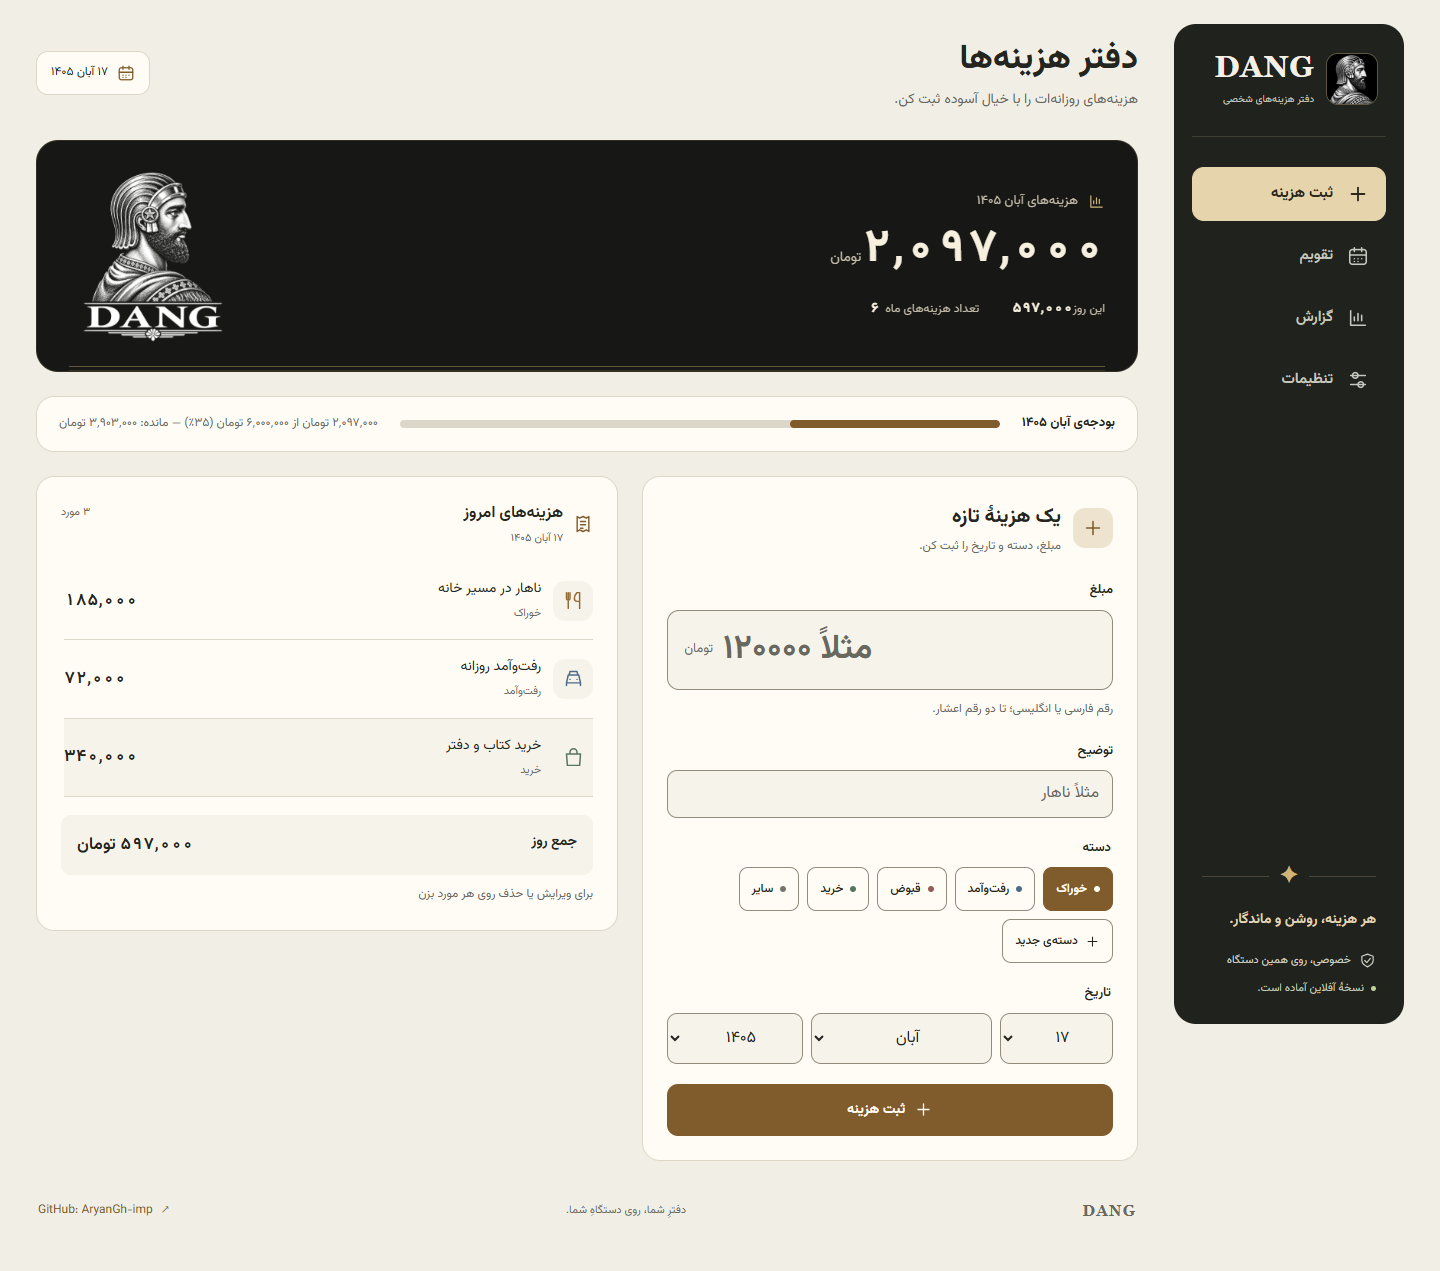
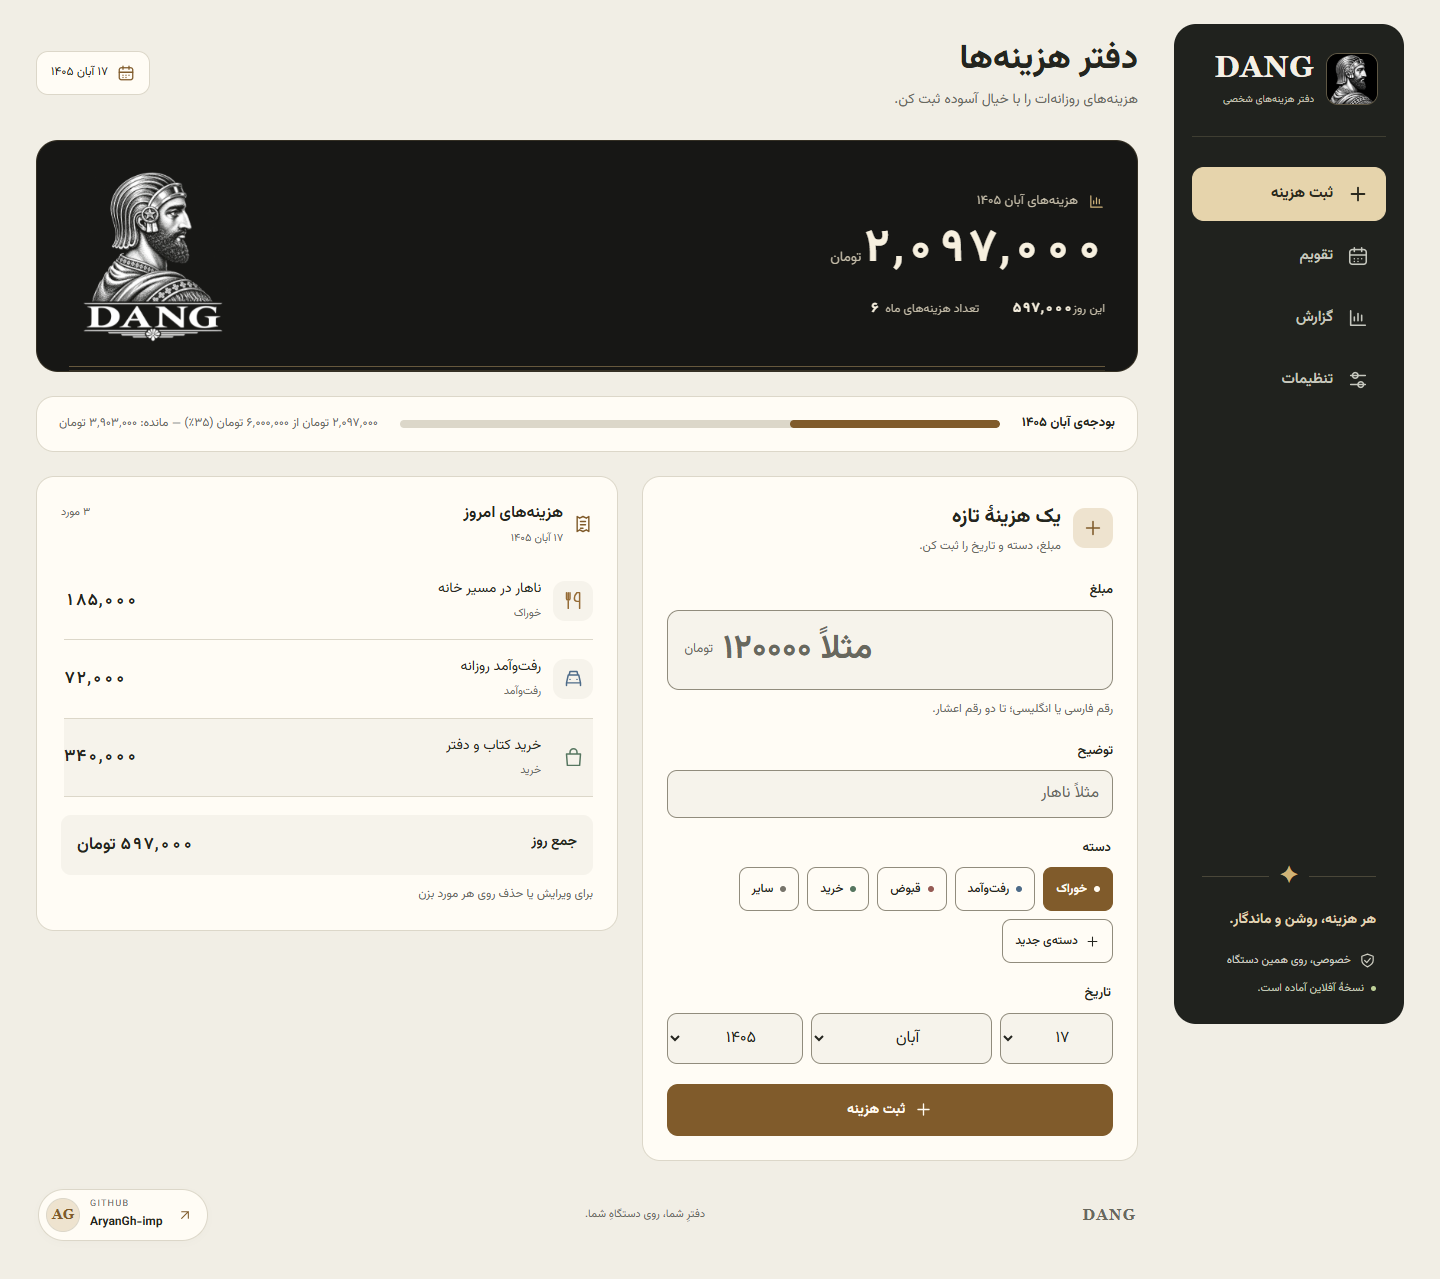
style(footer): refine the GitHub maintainer badge
Replace the plain GitHub credit with a theme-aware capsule, AG monogram,
two-line platform/handle label and a restrained external-link arrow.

Preserve the destination, accessible name, safe new-tab attributes and touch
target. Update the design guide and reviewed light/dark/mobile previews.

diff --git a/assets/css/styles.css b/assets/css/styles.css
@@ -2210,12 +2210,62 @@ details > label {
 .author-link {
   display: inline-flex;
   align-items: center;
-  gap: 8px;
-  min-height: 44px;
+  gap: 10px;
+  min-height: 52px;
   min-width: 44px;
-  font-size: 12px;
+  padding: 7px 14px 7px 7px;
+  border: 1px solid var(--line);
+  border-radius: 999px;
+  background: var(--card);
+  color: var(--ink);
   text-decoration: none;
+  box-shadow: 0 2px 8px #00000004;
+  transition:
+    border-color 160ms ease,
+    background 160ms ease,
+    transform 160ms ease;
 }
-.author-link:hover {
-  text-decoration: underline;
+.author-avatar {
+  display: grid;
+  place-items: center;
+  width: 34px;
+  height: 34px;
+  flex: none;
+  border: 1px solid var(--line);
+  border-radius: 50%;
+  background: var(--accent-soft);
+  color: var(--accent);
+  font-family: Georgia, serif;
+  font-size: 14px;
+  font-weight: 700;
+}
+.author-info {
+  display: flex;
+  flex-direction: column;
+  align-items: flex-start;
+  gap: 2px;
+}
+.author-platform {
+  color: var(--mute);
+  font-size: 9px;
+  line-height: 1.3;
+  letter-spacing: 0.14em;
+  text-transform: uppercase;
+}
+.author-name {
+  font-size: 12px;
+  line-height: 1.5;
+  font-weight: 650;
+}
+.author-arrow {
+  flex: none;
+  margin-inline-start: 4px;
+  color: var(--accent);
+}
+@media (hover: hover) and (pointer: fine) {
+  .author-link:hover {
+    border-color: var(--accent);
+    background: var(--paper);
+    transform: translateY(-2px);
+  }
 }

diff --git a/tests/browser/design.spec.js b/tests/browser/design.spec.js
@@ -129,6 +129,7 @@ test('capture branded desktop and mobile previews', async ({ page, browserName }
   await page.setViewportSize({ width: 1440, height: 1080 });
   await page.evaluate(() => window.scrollTo(0, 0));
   await page.screenshot({ path: 'docs/previews/desktop.png', fullPage: true });
+  await page.locator('.author-link').screenshot({ path: 'docs/previews/author-badge.png' });
   await page.setViewportSize({ width: 390, height: 844 });
   await page.evaluate(() => window.scrollTo(0, 0));
   await page.screenshot({ path: 'docs/previews/mobile.png', fullPage: true });
@@ -139,6 +140,7 @@ test('capture branded desktop and mobile previews', async ({ page, browserName }
   await expect(page.locator('#status')).toBeHidden();
   await page.evaluate(() => window.scrollTo(0, 0));
   await page.screenshot({ path: 'docs/previews/imperial-dark.png', fullPage: true });
+  await page.locator('.author-link').screenshot({ path: 'docs/previews/author-badge-dark.png' });
   await page.locator('#t3').click();
   await page.evaluate(() => window.scrollTo(0, 0));
   await page.screenshot({ path: 'docs/previews/report.png', fullPage: true });

diff --git a/index.html b/index.html
@@ -493,8 +493,26 @@
             dir="ltr"
             translate="no"
             aria-label="AryanGh-imp on GitHub"
-            >GitHub: AryanGh-imp <span aria-hidden="true">↗</span></a
-          >
+            ><span class="author-avatar" aria-hidden="true">AG</span>
+            <span class="author-info"
+              ><span class="author-platform">GitHub</span
+              ><span class="author-name">AryanGh-imp</span></span
+            >
+            <svg
+              class="author-arrow"
+              aria-hidden="true"
+              focusable="false"
+              width="16"
+              height="16"
+              viewBox="0 0 24 24"
+              fill="none"
+              stroke="currentColor"
+              stroke-width="1.6"
+              stroke-linecap="round"
+              stroke-linejoin="round"
+            >
+              <path d="M7 17 17 7M7 7h10v10" /></svg
+          ></a>
         </footer>
       </main>
     </div>

diff --git a/docs/design-system.md b/docs/design-system.md
@@ -23,7 +23,7 @@ CSS custom properties in `assets/css/styles.css` define surfaces, text, borders,
 - Amount, category, and date are the primary entry fields. The form supports Enter, inline errors, and retaining drafts after failed writes.
 - Editing uses a centered desktop dialog and a mobile bottom sheet. Focus is trapped inside, Escape closes it, and closing restores focus to the expense.
 - Categories and themes have labels and selected states in addition to color. Calendar intensity is limited to preserve text contrast.
-- The profile credit is an explicit external link with a touch-sized target and safe new-tab attributes.
+- The profile credit uses a compact capsule, an AG monogram, bronze accents, a two-line GitHub/handle label, and an external-link arrow. It has a touch-sized target, visible focus and safe new-tab attributes.
 - Vazirmatn is self-hosted, with tabular numbers, variable weights, and local Arabic/Latin subsets. Runtime typography does not contact a font CDN.
 - Reduced-motion preferences disable animations and transitions. Text can wrap across rows, totals, and summaries.
 
